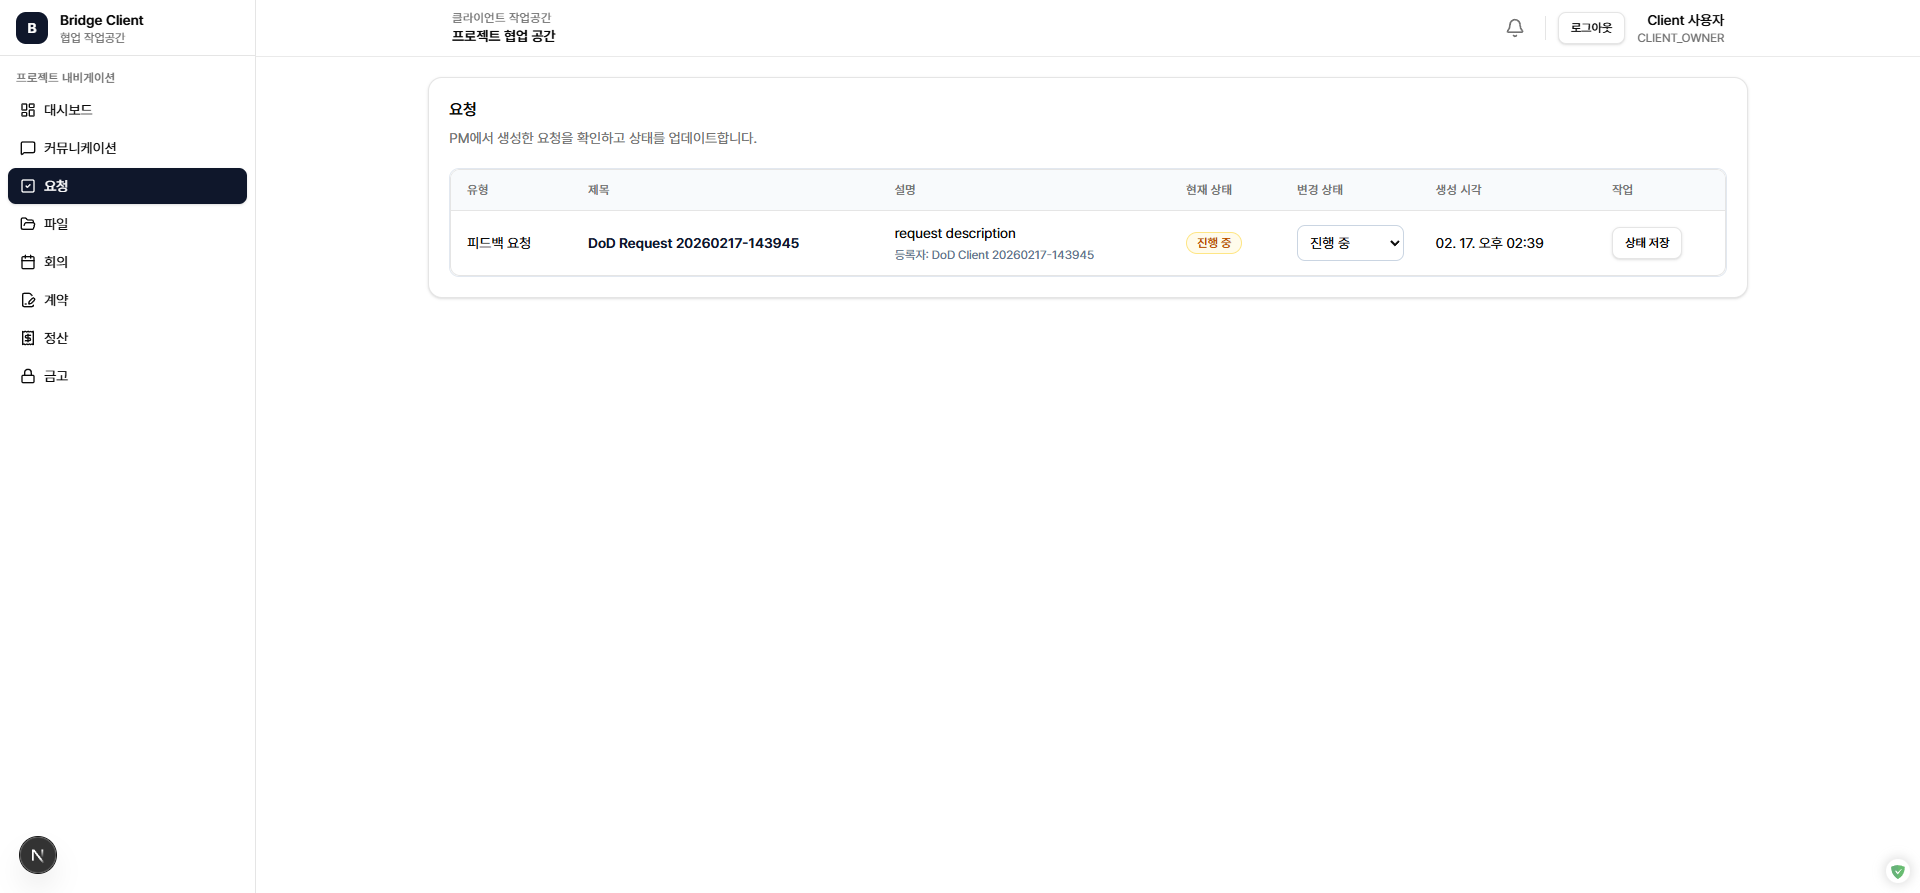
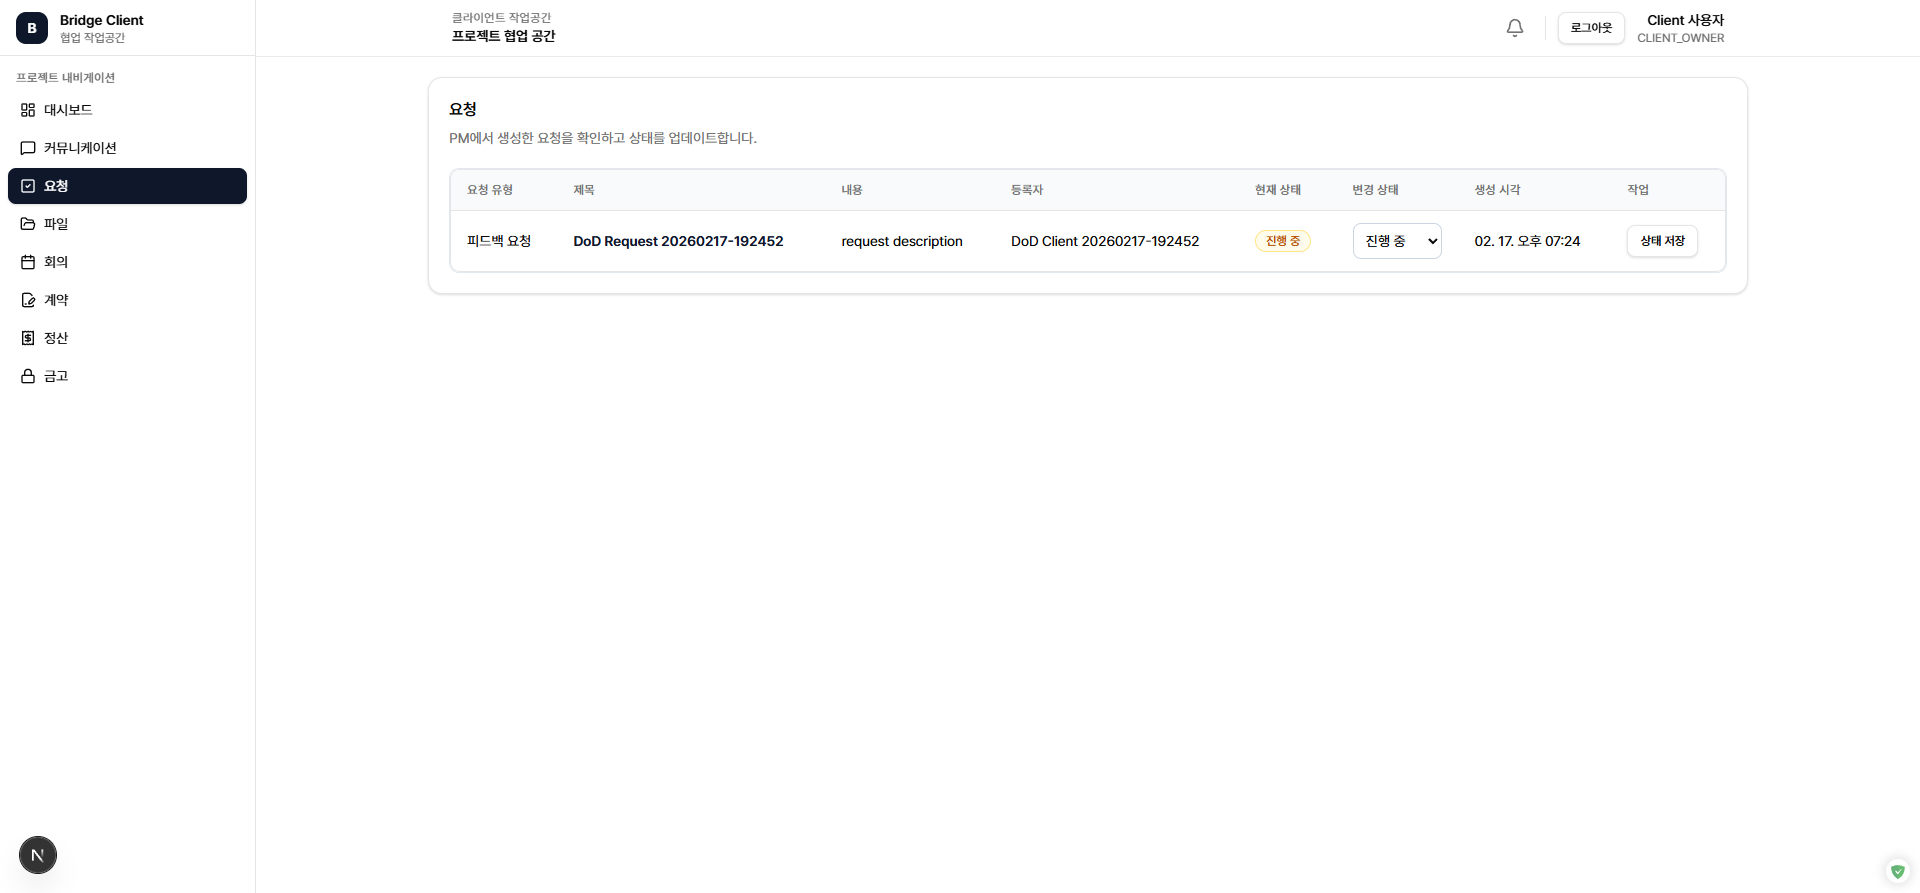
docs(product): refresh service intro screenshots and guides

Changed region(s): [[0.25, 0.1814, 0.9062, 0.3326]]

diff --git a/docs/Product/SERVICE_INTRO.md b/docs/Product/SERVICE_INTRO.md
@@ -1,130 +1,116 @@
 # Bridge 서비스 소개
 
-Bridge는 PM(벤더), 클라이언트, 관리자 3개 포털을 통해 프로젝트 협업을 한곳에서 처리하는 B2B SaaS입니다.  
-요청/결정/파일/회의/전자서명/정산/Vault를 하나의 프로젝트 룸에서 연결해 운영할 수 있습니다.
+Bridge는 관리자(Admin), PM(Vendor), 클라이언트(Client) 3개 포털로 구성된 B2B 프로젝트 협업 서비스입니다.
+프로젝트 생성부터 커뮤니케이션, 파일 검토, 회의, 계약/전자서명, 정산, Vault까지 하나의 흐름으로 운영합니다.
 
-## 주요 사용자
+## 포털별 역할
 
-- 관리자(Admin): 테넌트/사용자/프로젝트 운영 관리
-- PM(Vendor): 프로젝트 생성과 실행, 협업 플로우 주도
-- 클라이언트(Client): 요청 응답, 파일 검토, 계약/정산 확인
+- Admin: 테넌트/사용자/프로젝트 운영 관리
+- PM: 프로젝트 생성 및 실행, 실무 협업 주도
+- Client: 요청 응답, 파일/계약/정산 검토 및 승인
 
-## 핵심 기능
+## 공통 제공 기능
 
-1. **테넌트·사용자 관리**: 관리자 포털에서 테넌트 생성, PM 사용자 생성, 프로젝트 모니터링
-2. **프로젝트 생성·초대**: PM이 프로젝트를 만들고 클라이언트를 초대/연결
-3. **커뮤니케이션**: 게시글/댓글 기반으로 공유형 커뮤니케이션 진행
-4. **요청·결정 워크플로**: 요청 등록 및 상태 전이, 결정 승인/반려 처리
-5. **파일 협업**: 파일 등록, 버전 관리, 주석/해결(Resolve) 흐름 지원
-6. **회의 운영**: 회의 일정 생성, 참석 응답, 링크 공유
-7. **전자서명(eSign)**: Envelope/서명 필드/수신자 기반 서명 처리와 상태 추적
-8. **정산(Billing)**: 인보이스 상태 관리와 증빙 첨부 확인
-9. **Vault 보안정보 관리**: 접근 요청/승인/열람 이력 기반 비밀정보 운용
+1. 테넌트/사용자 관리
+2. 프로젝트 생성 및 멤버 초대
+3. 게시글 기반 커뮤니케이션
+4. 요청 상태 관리
+5. 파일 버전 및 리뷰 협업
+6. 회의 일정/참석 관리
+7. 계약 및 전자서명(eSign)
+8. 정산(Billing) 상태 관리
+9. Vault 보안 정보 관리
+
+## 스크린샷 캡처 기준
+
+- 캡처 일시: 2026-02-17 (KST)
+- 캡처 방식: Chrome MCP
+- 로컬 실행 URL:
+  - Admin: `http://localhost:3002`
+  - PM: `http://localhost:3000`
+  - Client: `http://localhost:3001`
+- 데모 데이터 기준:
+  - tenant slug: `dod-20260217192452`
+  - projectId: `0d63ec02-93d3-48f6-af2e-171bbe2f3e05`
 
 ## 화면 미리보기
 
-아래 이미지는 2026-02-17 기준 로컬 데모 환경에서 Chrome MCP로 캡처한 화면입니다.
-
 ### Admin
 
-**Admin 로그인**
-
+#### 로그인
 ![Admin 로그인](./screenshots/admin-login.png)
 
-**테넌트 목록**
-
+#### 테넌트 목록
 ![Admin 테넌트 목록](./screenshots/admin-tenants.png)
 
-**테넌트 상세(프로젝트/PM 사용자 포함)**
-
+#### 테넌트 상세
 ![Admin 테넌트 상세](./screenshots/admin-tenant-detail.png)
 
-**프로젝트 대시보드(관리자 뷰)**
-
+#### 프로젝트 대시보드
 ![Admin 프로젝트 대시보드](./screenshots/admin-project-dashboard.png)
 
 ### PM
 
-**PM 로그인**
-
+#### 로그인
 ![PM 로그인](./screenshots/pm-login.png)
 
-**프로젝트 목록**
-
+#### 프로젝트 목록
 ![PM 프로젝트 목록](./screenshots/pm-projects.png)
 
-**프로젝트 대시보드**
-
+#### 대시보드
 ![PM 대시보드](./screenshots/pm-dashboard.png)
 
-**커뮤니케이션(게시글)**
-
+#### 커뮤니케이션
 ![PM 게시글](./screenshots/pm-posts.png)
 
-**요청 관리**
-
+#### 요청
 ![PM 요청](./screenshots/pm-requests.png)
 
-**파일 관리**
-
+#### 파일
 ![PM 파일](./screenshots/pm-files.png)
 
-**회의 관리**
-
+#### 회의
 ![PM 회의](./screenshots/pm-meetings.png)
 
-**계약/eSign 관리**
-
+#### 계약
 ![PM 계약](./screenshots/pm-contracts.png)
 
-**정산 관리**
-
+#### 정산
 ![PM 정산](./screenshots/pm-billing.png)
 
-**Vault 관리**
-
+#### Vault
 ![PM Vault](./screenshots/pm-vault.png)
 
 ### Client
 
-**Client 로그인**
-
+#### 로그인
 ![Client 로그인](./screenshots/client-login.png)
 
-**내 프로젝트**
-
+#### 프로젝트 목록
 ![Client 프로젝트 목록](./screenshots/client-projects.png)
 
-**대시보드**
-
+#### 대시보드
 ![Client 대시보드](./screenshots/client-dashboard.png)
 
-**요청 확인/응답**
-
+#### 요청
 ![Client 요청](./screenshots/client-requests.png)
 
-**파일 검토**
-
+#### 파일
 ![Client 파일](./screenshots/client-files.png)
 
-**회의 응답**
-
+#### 회의
 ![Client 회의](./screenshots/client-meetings.png)
 
-**계약 검토**
-
+#### 계약
 ![Client 계약](./screenshots/client-contracts.png)
 
-**정산 확인**
-
+#### 정산
 ![Client 정산](./screenshots/client-billing.png)
 
-**Vault 정보 확인**
-
+#### Vault
 ![Client Vault](./screenshots/client-vault.png)
 
-**전자서명 페이지**
-
+#### 전자서명
 ![Client 전자서명](./screenshots/client-signing.png)
 
 ## 참고 문서

diff --git a/docs/Product/client/SERVICE_INTRO.md b/docs/Product/client/SERVICE_INTRO.md
@@ -1,56 +1,55 @@
 # Bridge Client 서비스 소개
 
-Bridge Client는 발주/클라이언트가 프로젝트 진행 상황을 확인하고 승인/응답하는 작업공간입니다.
+Bridge Client는 발주/클라이언트가 프로젝트 진행 상태를 확인하고 승인/응답하는 작업공간입니다.
 
-## Client 핵심 기능
+## 핵심 기능
 
 1. 내 프로젝트 확인
 2. 요청 상태 확인/응답
-3. 파일 검토
+3. 파일 검토 및 다운로드
 4. 회의 참석 응답
 5. 계약 검토(승인/반려)
 6. 정산 상태 확인
 7. Vault 정보 확인
 8. 전자서명 페이지 접근 및 서명 제출
 
+## 스크린샷 캡처 기준
+
+- 캡처 일시: 2026-02-17 (KST)
+- 캡처 방식: Chrome MCP
+- URL: `http://localhost:3001`
+- 데모 tenant slug: `dod-20260217192452`
+- 데모 projectId: `0d63ec02-93d3-48f6-af2e-171bbe2f3e05`
+- 전자서명 토큰 경로: `/sign/02d415b252f94ea093bde26742ec0340`
+
 ## 화면 미리보기
 
 ### 로그인
-
 ![Client 로그인](../screenshots/client-login.png)
 
 ### 내 프로젝트
-
 ![Client 프로젝트 목록](../screenshots/client-projects.png)
 
 ### 대시보드
-
 ![Client 대시보드](../screenshots/client-dashboard.png)
 
 ### 요청
-
 ![Client 요청](../screenshots/client-requests.png)
 
 ### 파일
-
 ![Client 파일](../screenshots/client-files.png)
 
 ### 회의
-
 ![Client 회의](../screenshots/client-meetings.png)
 
 ### 계약
-
 ![Client 계약](../screenshots/client-contracts.png)
 
 ### 정산
-
 ![Client 정산](../screenshots/client-billing.png)
 
 ### Vault
-
 ![Client Vault](../screenshots/client-vault.png)
 
 ### 전자서명
-
 ![Client 전자서명](../screenshots/client-signing.png)

diff --git a/docs/Product/pm/SERVICE_INTRO.md b/docs/Product/pm/SERVICE_INTRO.md
@@ -1,56 +1,54 @@
 # Bridge PM 서비스 소개
 
-Bridge PM은 프로젝트 실행을 주도하는 벤더용 작업공간입니다.
+Bridge PM은 벤더가 프로젝트 실행을 주도하는 실무 작업공간입니다.
 
-## PM 핵심 기능
+## 핵심 기능
 
-1. 프로젝트 생성/관리
-2. 커뮤니케이션(게시글/댓글)
+1. 프로젝트 생성/운영
+2. 게시글 기반 커뮤니케이션
 3. 요청 상태 관리
-4. 파일 버전 및 협업 관리
+4. 파일 버전/리뷰 협업
 5. 회의 일정 운영
-6. 계약/eSign 진행 관리
+6. 계약 및 전자서명 진행
 7. 정산(Billing) 관리
-8. Vault 계정/비밀정보 운영
+8. Vault 계정 정보 운영
+
+## 스크린샷 캡처 기준
+
+- 캡처 일시: 2026-02-17 (KST)
+- 캡처 방식: Chrome MCP
+- URL: `http://localhost:3000`
+- 데모 tenant slug: `dod-20260217192452`
+- 데모 projectId: `0d63ec02-93d3-48f6-af2e-171bbe2f3e05`
 
 ## 화면 미리보기
 
 ### 로그인
-
 ![PM 로그인](../screenshots/pm-login.png)
 
 ### 프로젝트 목록
-
 ![PM 프로젝트 목록](../screenshots/pm-projects.png)
 
 ### 대시보드
-
 ![PM 대시보드](../screenshots/pm-dashboard.png)
 
 ### 커뮤니케이션
-
 ![PM 게시글](../screenshots/pm-posts.png)
 
 ### 요청
-
 ![PM 요청](../screenshots/pm-requests.png)
 
 ### 파일
-
 ![PM 파일](../screenshots/pm-files.png)
 
 ### 회의
-
 ![PM 회의](../screenshots/pm-meetings.png)
 
 ### 계약
-
 ![PM 계약](../screenshots/pm-contracts.png)
 
 ### 정산
-
 ![PM 정산](../screenshots/pm-billing.png)
 
 ### Vault
-
 ![PM Vault](../screenshots/pm-vault.png)

diff --git a/docs/Product/admin/SERVICE_INTRO.md b/docs/Product/admin/SERVICE_INTRO.md
@@ -1,28 +1,32 @@
 # Bridge Admin 서비스 소개
 
-Bridge Admin은 플랫폼 운영자가 테넌트, 사용자, 프로젝트를 통합 관리하는 콘솔입니다.
+Bridge Admin은 플랫폼 운영자가 테넌트, 사용자, 프로젝트를 통합 관리하는 운영 콘솔입니다.
 
-## Admin 핵심 기능
+## 핵심 기능
 
-1. 테넌트 생성/상태 확인
-2. 테넌트 상세 조회(프로젝트, PM 사용자 포함)
-3. 프로젝트 단위 대시보드 모니터링
-4. 운영 관점의 사용자/권한 관리
+1. 테넌트 생성 및 상태 관리
+2. 테넌트 상세 조회(프로젝트/PM 사용자 포함)
+3. 프로젝트 대시보드 모니터링
+4. 운영 사용자 관리
+
+## 스크린샷 캡처 기준
+
+- 캡처 일시: 2026-02-17 (KST)
+- 캡처 방식: Chrome MCP
+- URL: `http://localhost:3002`
+- 데모 tenantId: `d69e1dab-288b-43ee-a9fa-d183fc221255`
+- 데모 projectId: `0d63ec02-93d3-48f6-af2e-171bbe2f3e05`
 
 ## 화면 미리보기
 
 ### 로그인
-
 ![Admin 로그인](../screenshots/admin-login.png)
 
 ### 테넌트 목록
-
 ![Admin 테넌트 목록](../screenshots/admin-tenants.png)
 
 ### 테넌트 상세
-
 ![Admin 테넌트 상세](../screenshots/admin-tenant-detail.png)
 
 ### 프로젝트 대시보드
-
 ![Admin 프로젝트 대시보드](../screenshots/admin-project-dashboard.png)
